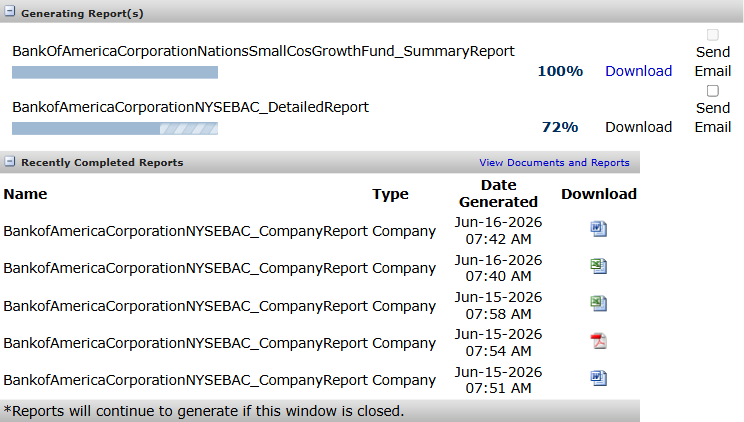
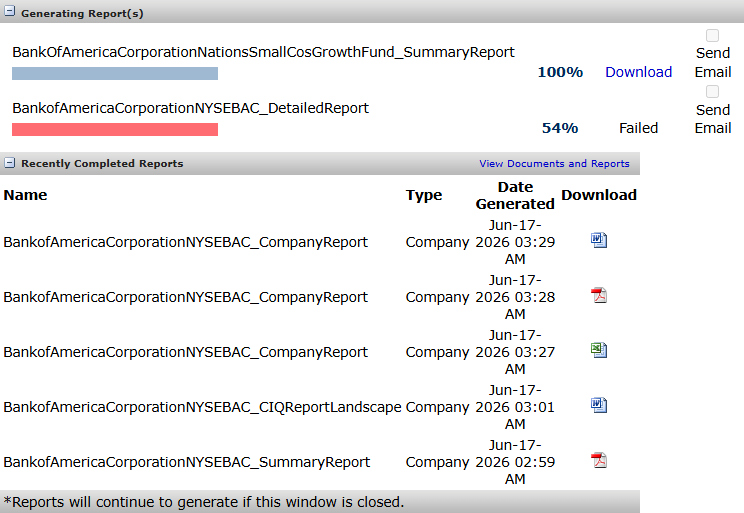
changes in tests

diff --git a/Legacy02052026-legacy-regression/tests/test_download_fromTearsheet.py b/Legacy02052026-legacy-regression/tests/test_download_fromTearsheet.py
@@ -5,35 +5,35 @@ import sys
 # ✅ Ensure Python can find your module (root folder)
 sys.path.append(os.path.abspath(os.path.join(os.path.dirname(__file__), '..')))
 
-from tearsheet_ciqWordReport import generate_tearsheet_report_word
-from tearsheet_QuickReport import generate_tearsheet_quick_report
-from tearsheet_tenK_excel import generate_tearsheet_10K_excel
-from tearsheet_tenK_word import generate_tearsheet_10K_word  
-from tearsheet_tenK_pdf import generate_tearsheet_10K_pdf
+from tearsheet_ciqWordReport import  generate_save_ciq_report_tearsheet
+from tearsheet_QuickReport import generate_save_quick_report_fromTearsheet
+from tearsheet_tenK_excel import generate_ten_kExcel_from_tearsheet
+from tearsheet_tenK_word import  generate_ten_kWORD_from_tearsheet  
+from tearsheet_tenK_pdf import generate_ten_kPDF_from_tearsheet
 
 @pytest.mark.asyncio
 async def test_generate_tearsheet_report_word_download():  
-    result = await generate_tearsheet_report_word()
+    result = await generate_save_ciq_report_tearsheet()
     assert result is not None, "Download path is None"
     assert os.path.exists(result), f"File does not exist: {result}"
 @pytest.mark.asyncio
 async def test_generate_tearsheet_quick_report_download():  
-    result = await generate_tearsheet_quick_report()
+    result = await generate_save_quick_report_fromTearsheet()
     assert result is not None, "Download path is None"
     assert os.path.exists(result), f"File does not exist: {result}"
 @pytest.mark.asyncio   
 async def test_generate_tearsheet_10K_excel_download():  
-    result = await generate_tearsheet_10K_excel()
+    result = await generate_ten_kExcel_from_tearsheet()
     assert result is not None, "Download path is None"
     assert os.path.exists(result), f"File does not exist: {result}" 
 @pytest.mark.asyncio
 async def test_generate_tearsheet_10K_word_download():  
-    result = await generate_tearsheet_10K_word()
+    result = await generate_ten_kWORD_from_tearsheet()
     assert result is not None, "Download path is None"
     assert os.path.exists(result), f"File does not exist: {result}"
 @pytest.mark.asyncio
 async def test_generate_tearsheet_10K_pdf_download():  
-    result = await generate_tearsheet_10K_pdf()
+    result = await generate_ten_kPDF_from_tearsheet()
     assert result is not None, "Download path is None"
     assert os.path.exists(result), f"File does not exist: {result}" 
 

diff --git a/Legacy02052026-legacy-regression/Login.py b/Legacy02052026-legacy-regression/Login.py
@@ -17,10 +17,10 @@ def main():
         page.goto("https://www.stagingciq.com")  # Replace with the actual URL
 
         # Fill in the login form
-        page.locator("//*[@id='input28']").fill("[email redacted]")
+        page.locator("//*[@id='input28']").fill("[email redacted]")
         page.locator("//*[@id='form20']/div[2]/input").click()
         #page.wait_for_selector("//*[@id='input62']")
-        page.locator("xpath=/html/body/div[1]/div[3]/div[2]/div[1]/div/main/div[2]/div/div/div[2]/form/div[1]/div[4]/div/div[2]/span/input").fill("Monsoon@123")
+        page.locator("xpath=/html/body/div[1]/div[3]/div[2]/div[1]/div/main/div[2]/div/div/div[2]/form/div[1]/div[4]/div/div[2]/span/input").fill("Testuser123")
         # Click the login button
         page.locator("xpath=/html/body/div[1]/div[3]/div[2]/div[1]/div/main/div[2]/div/div/div[2]/form/div[2]/input").click()  # Replace with the correct selector
         # Wait for navigation or a specific element

diff --git a/Legacy02052026-legacy-regression/tearsheet_tenK_excel.py b/Legacy02052026-legacy-regression/tearsheet_tenK_excel.py
@@ -10,7 +10,7 @@ async def generate_ten_kExcel_from_tearsheet():
     page = None
 
     try:
-        os.environ["PLAYWRIGHT_HEADLESS"] = "0"
+        os.environ["PLAYWRIGHT_HEADLESS"] = "1"
 
         playwright, browser, page = await login()
 